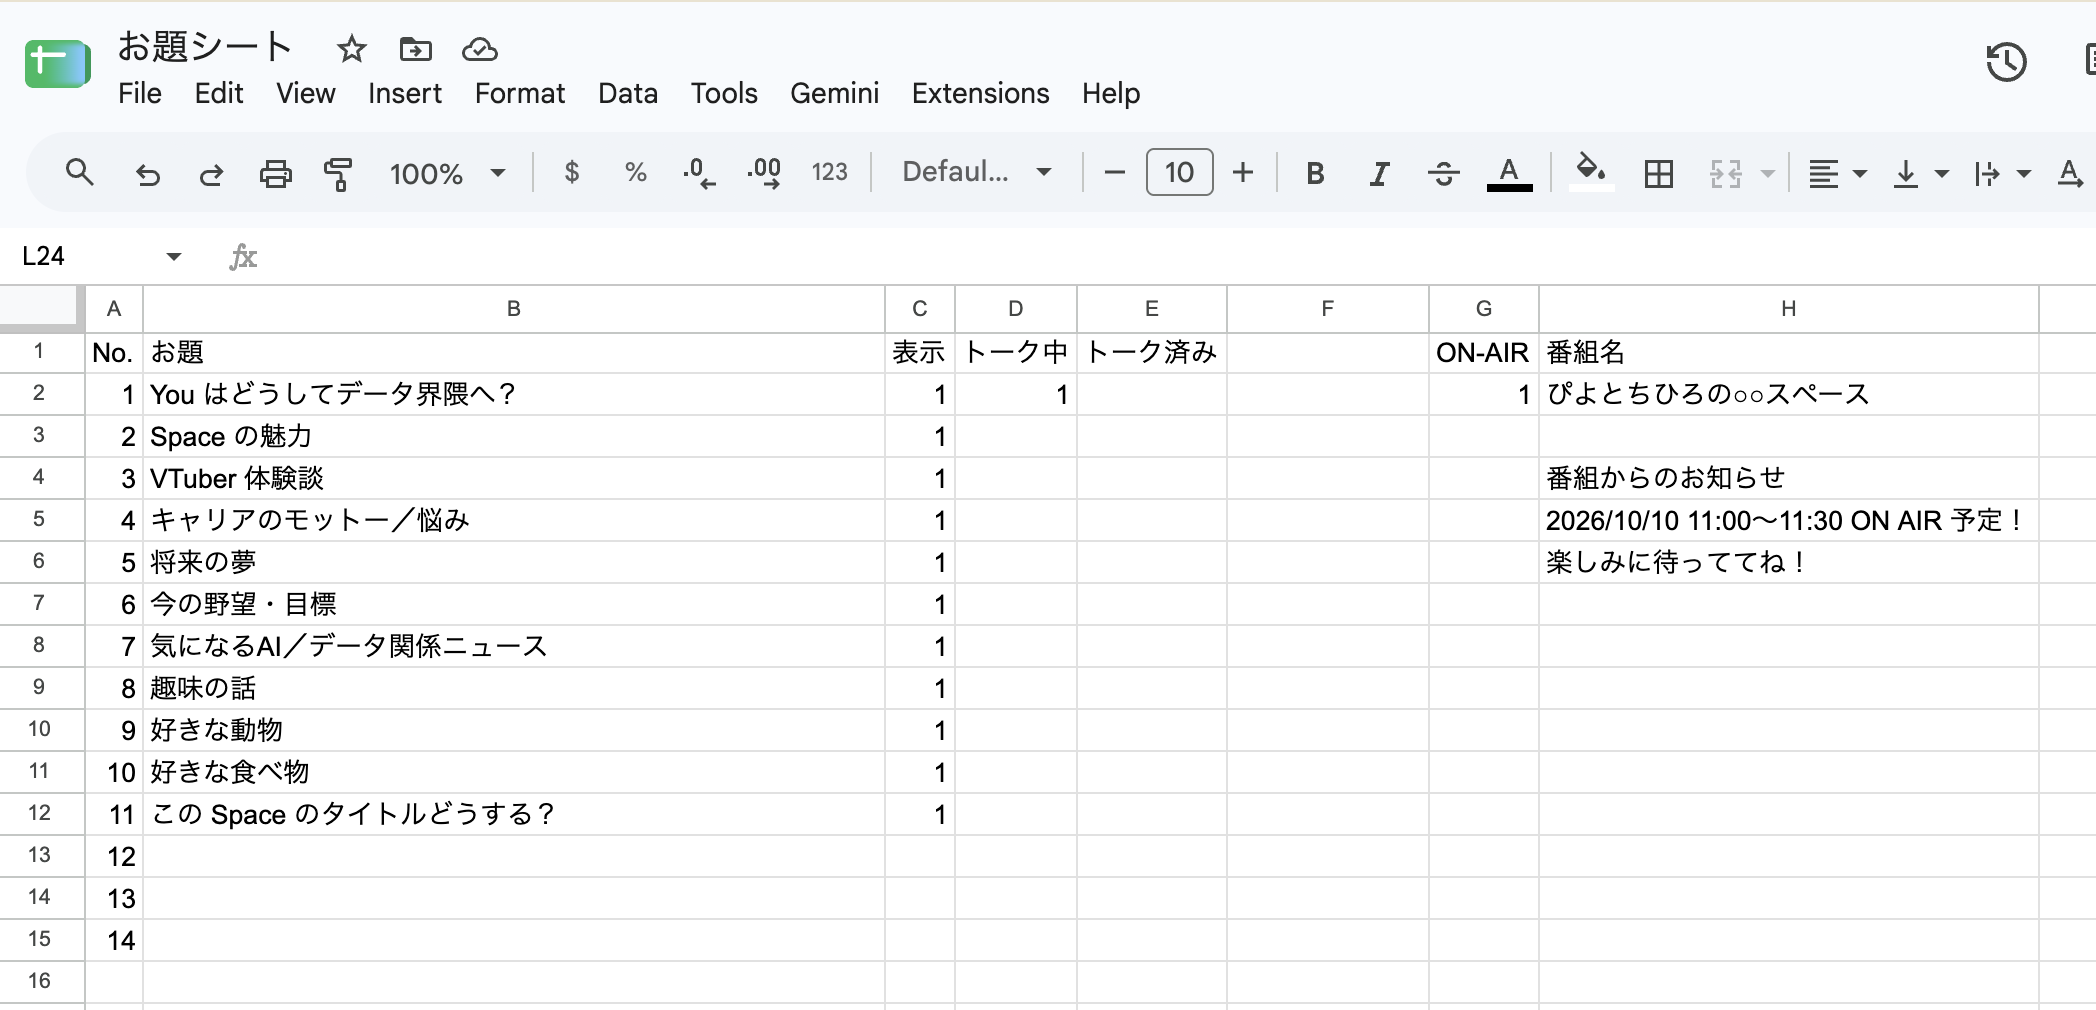
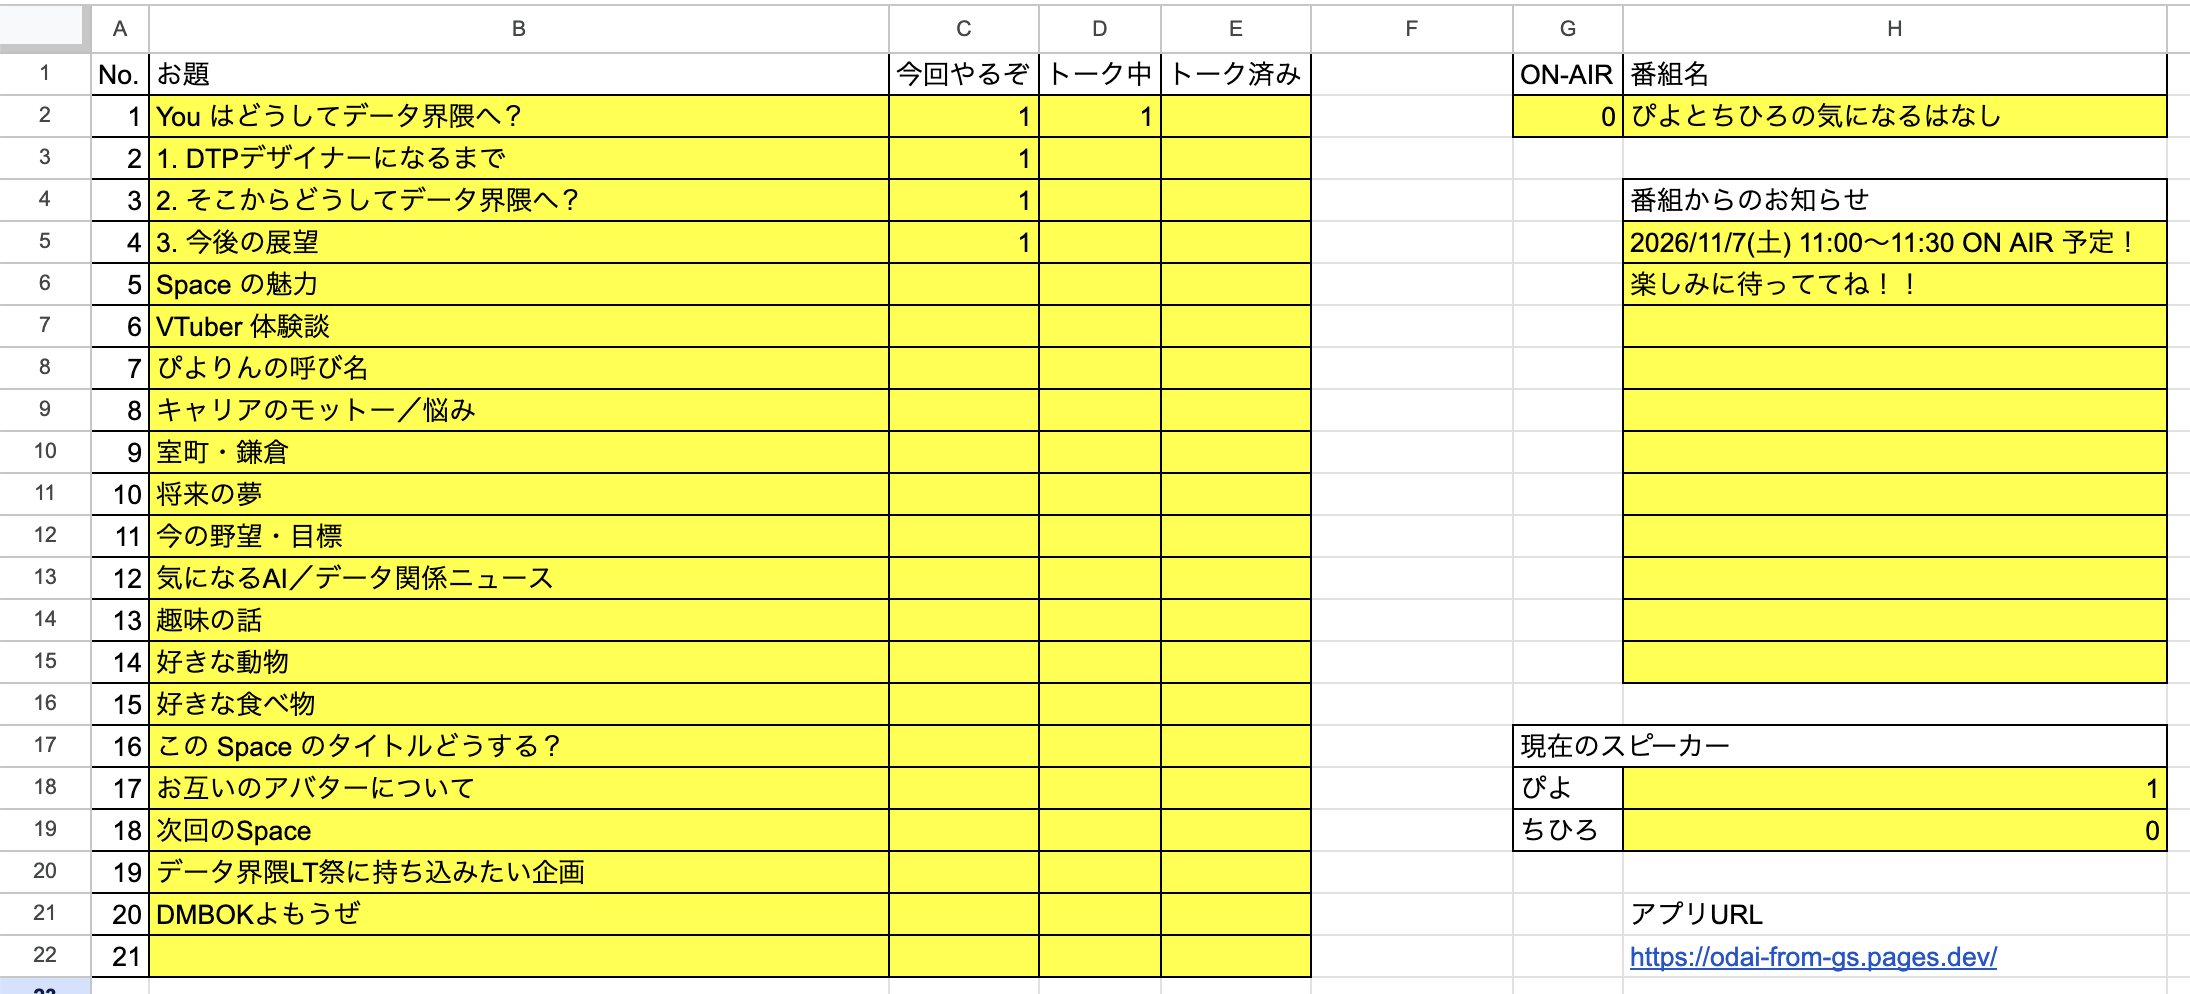
READMEの修正

diff --git a/README.md b/README.md
@@ -11,7 +11,7 @@
 
 - Google Spreadsheet からお題一覧を取得
 - 今トーク中の話題は、スポットライトが当たって真ん中にいく
-- そのテーマのトークが終わると、話題のまるが消える
+- 話題は優先度別に、階層的に表示
 
 ### ON-AIR中以外
 
@@ -30,15 +30,17 @@
 
 ![Spreadsheet 画面](./images/GS.png)
 
-- お題一覧 - C列が1かつE列が1以外のお題を画面表示。D列が1のお題はスポットライトが当たってセンターにいく
+- お題一覧 -D列が1のお題はスポットライトが当たってセンターにいく。
   - A列 = 通番
   - B列 = お題の候補
-  - C列 = そのお題を画面表示するかのフラグ
-  - D列 = トーク中かどうかのフラグ
-  - E列 = トーク済みフラグ
+  - C列 = そのお題を優先表示するかどうかのフラグ（ここが1のお題は中段に表示）
+  - D列 = トーク中かどうかのフラグ（ここが1のお題はスポットライトが当たる）
+  - E列 = トーク済みフラグ（ここが1のお題は画面から消える）
 - G2セル = 1なら ON-AIR 中、それ以外は NOT ON-AIR
 - H2セル = 番組名
 - H5セル〜 = 番組からのお知らせ。ON-AIR中以外の画面に表示。（1行ごとに改行し、空行出現時点で表示ストップ）
+- H18セル = ここが1ならSPEAKER1にスポットライト
+- H19セル = ここが1ならSPEAKER2にスポットライト
 
 ### デプロイ方法
 
